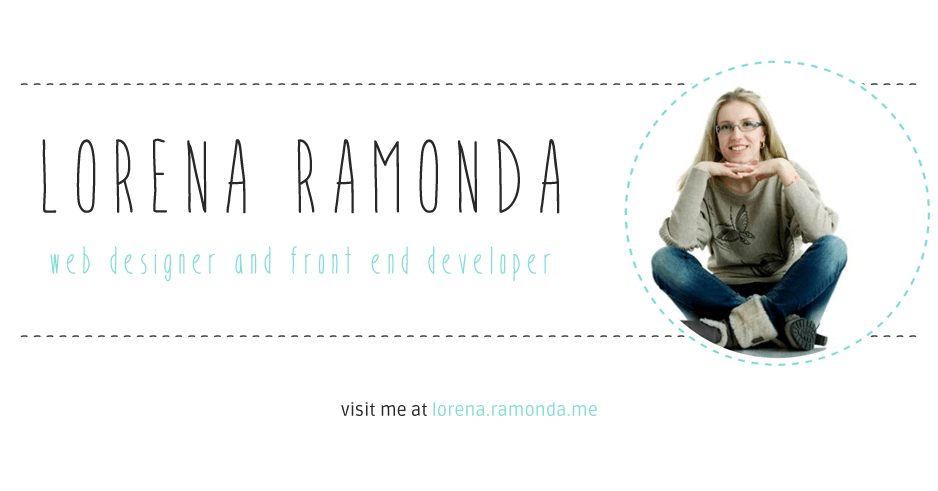
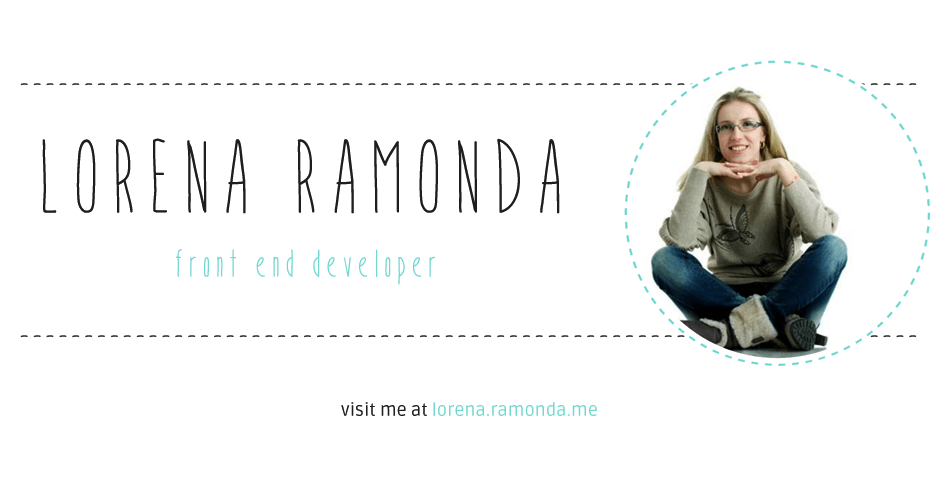
Fix header on tablet and update social image

Changed region(s): [[0.0309, 0.5193, 0.5874, 0.5804]]

diff --git a/assets/scss/_layout.scss b/assets/scss/_layout.scss
@@ -102,7 +102,7 @@ body {
       font-weight: normal;
     }
   }
-  @media #{$small-only} {
+  @media #{$medium-down} {
     display: flex;
     flex-direction: column;
     .logo {

diff --git a/CHANGELOG.md b/CHANGELOG.md
@@ -2,6 +2,10 @@
 All notable changes to this project will be documented in this file. (http://keepachangelog.com/)
 This project adheres to [Semantic Versioning](http://semver.org/).
 
+
+## [1.0.3] - 2010-06-01
+- Fixed header on tablet and update social image
+
 ## [1.0.2] - 2010-06-01
 - Added sitemap
 
